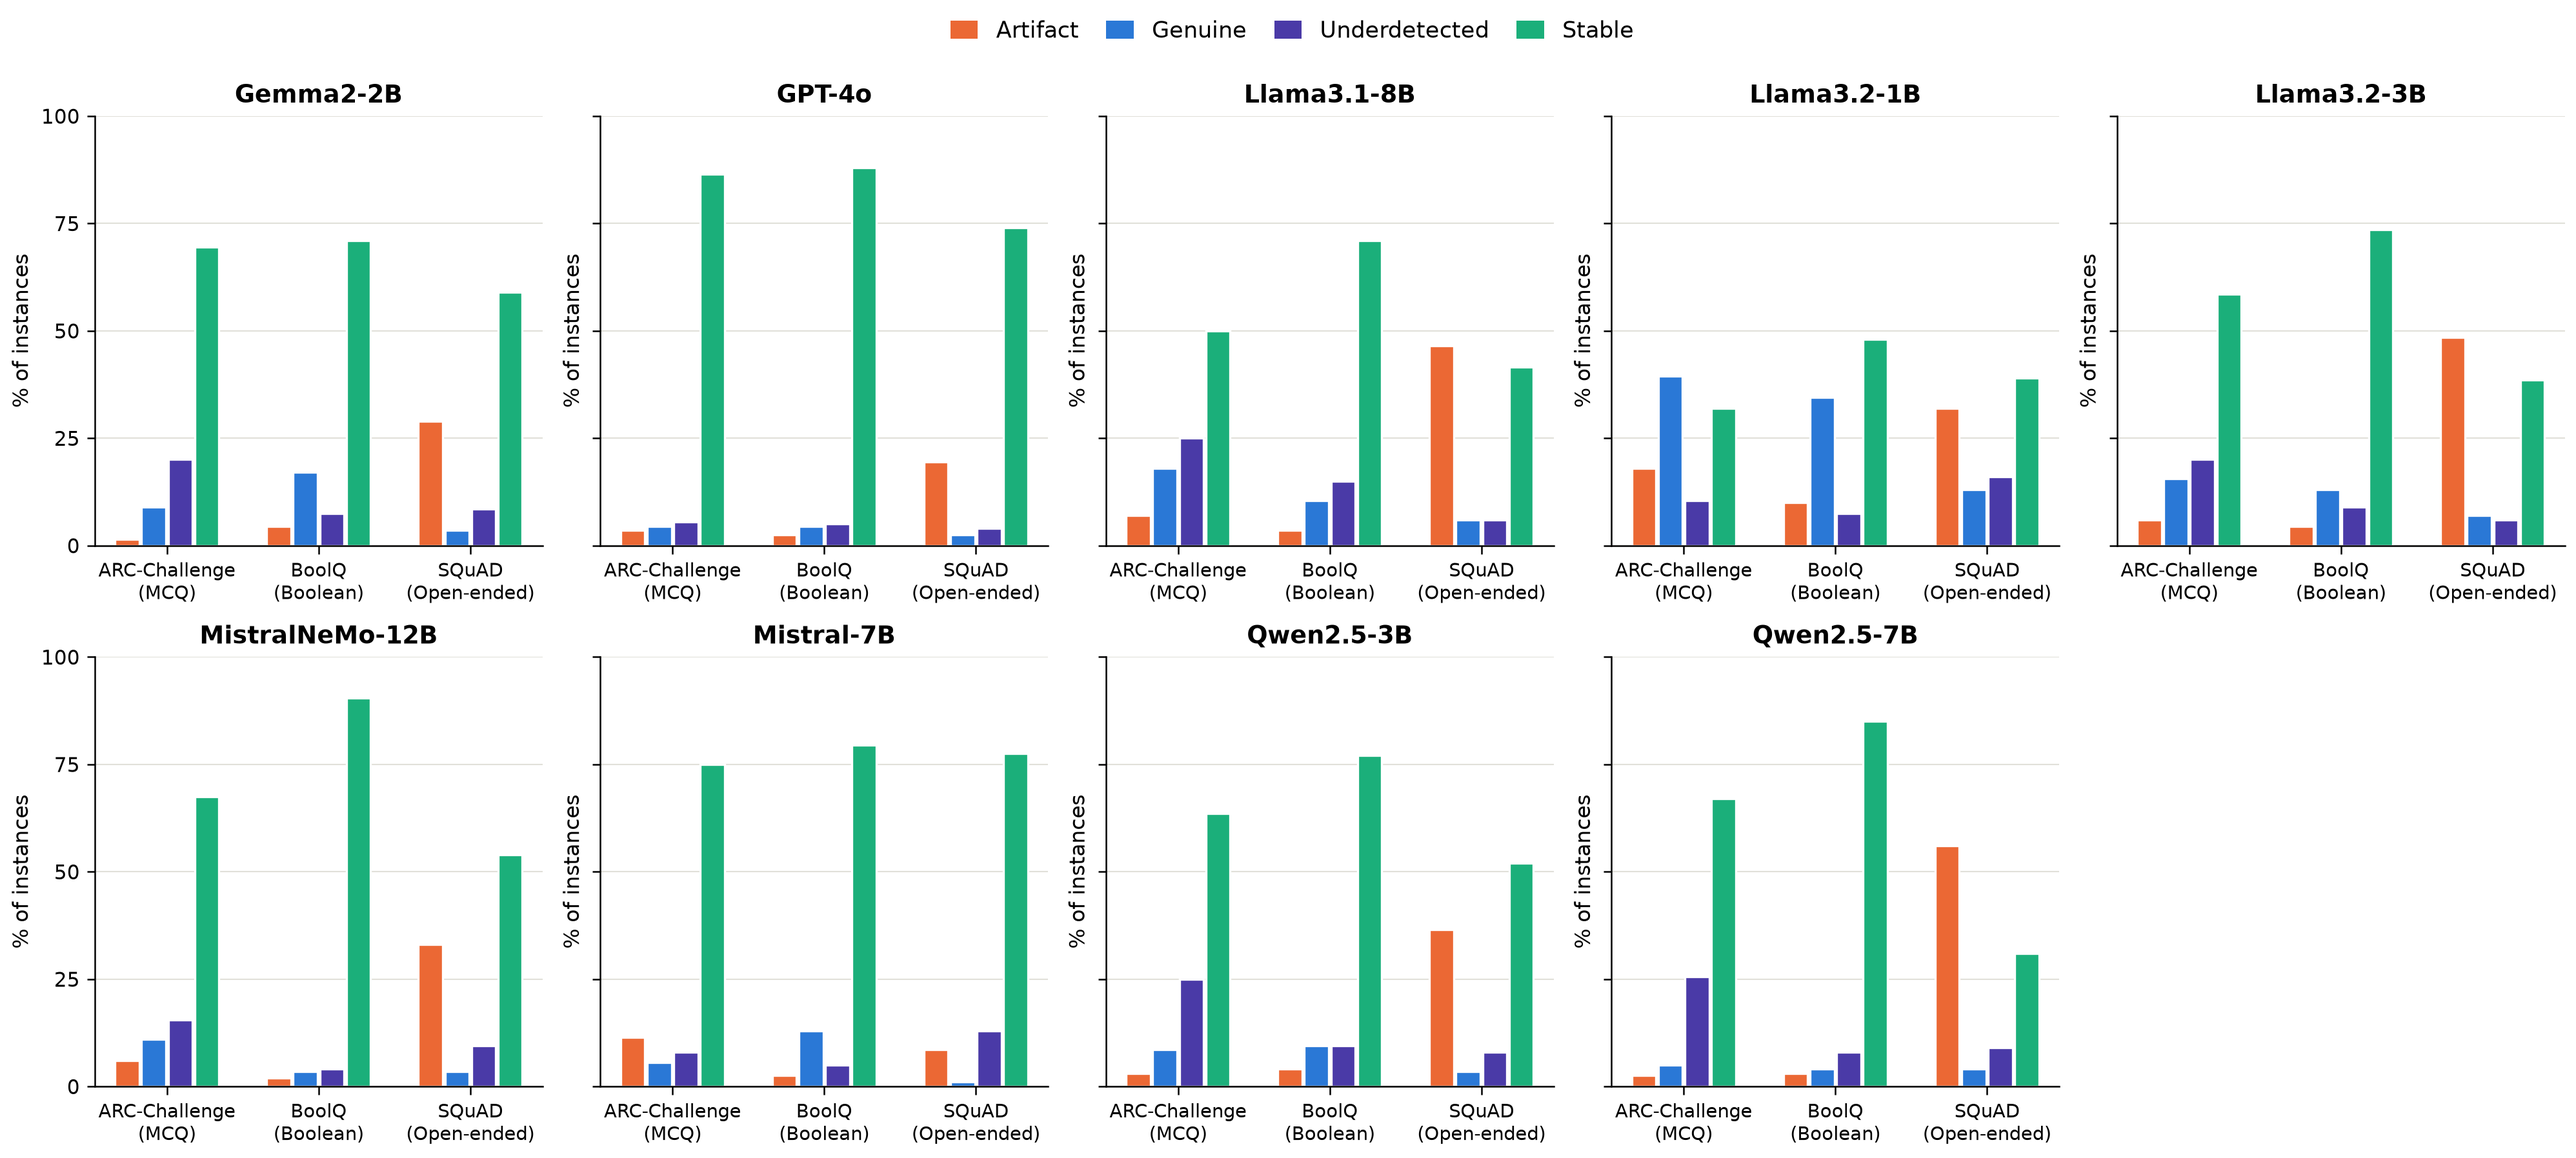
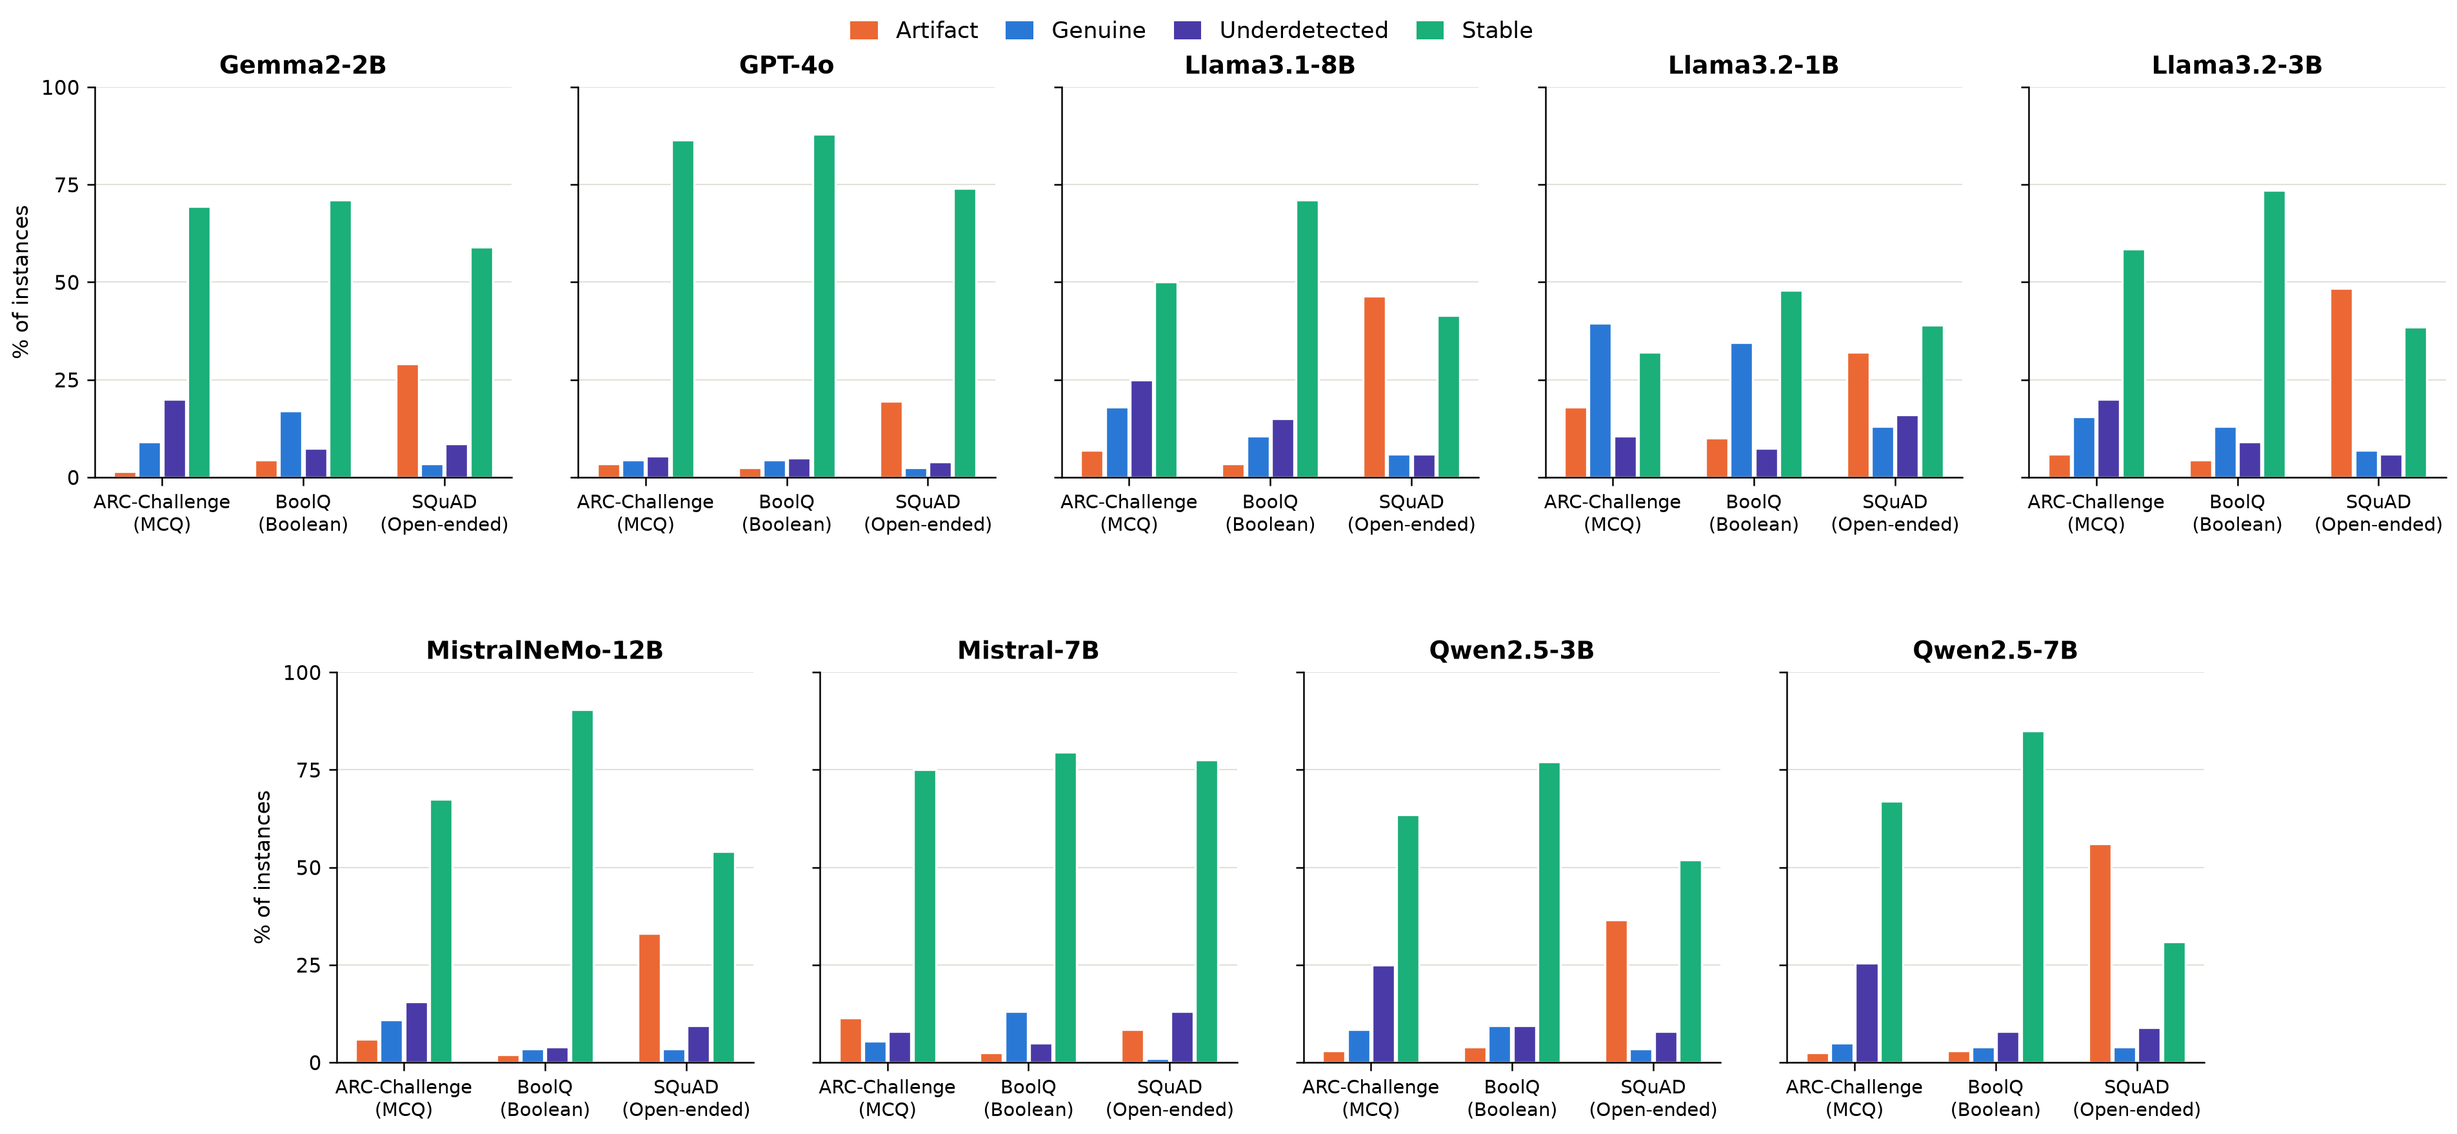
Updated figures

diff --git a/study/plot.py b/study/plot.py
@@ -135,19 +135,49 @@ def _style_ax(ax, ylabel: str = "", ylim=None, grid: bool = True) -> None:
 
 def _grid_axes(n: int, per_row: int = 5,
                cell_w: float = 2.7, cell_h: float = 3.0,
-               sharey: bool = True):
-    """Return (fig, axes_flat[:n]).  Extra slots in last row are hidden."""
-    ncols = min(n, per_row)
-    nrows = (n + ncols - 1) // ncols
-    fig, axes = plt.subplots(
+               sharey: bool = True, center: bool = False):
+    """Return (fig, list_of_axes[:n]).
+
+    With center=True and a non-full last row, the last row is horizontally
+    centered under the full rows using a doubled-column GridSpec so that
+    the incomplete row sits in the middle rather than pinned to the left.
+    """
+    ncols  = min(n, per_row)
+    nrows  = (n + ncols - 1) // ncols
+    n_last = n - (nrows - 1) * ncols  # panels in the final row
+
+    if center and nrows > 1 and n_last < ncols:
+        # Each panel occupies 2 GridSpec columns; the last row gets
+        # (ncols - n_last) empty columns as margin on each side.
+        gs_cols = 2 * ncols
+        fig = plt.figure(figsize=(cell_w * ncols, cell_h * nrows))
+        gs  = GridSpec(nrows, gs_cols, figure=fig,
+                       hspace=0.50, wspace=0.38,
+                       top=0.92, bottom=0.08, left=0.08, right=0.98)
+        axes = []
+        for row in range(nrows - 1):                      # full rows
+            for col in range(ncols):
+                axes.append(fig.add_subplot(gs[row, 2*col : 2*col+2]))
+        margin = ncols - n_last                           # symmetric padding
+        for i in range(n_last):                           # centred last row
+            c0 = margin + 2 * i
+            axes.append(fig.add_subplot(gs[nrows - 1, c0 : c0 + 2]))
+        if sharey:
+            ref = axes[0]
+            for ax in axes[1:]:
+                ax.sharey(ref)
+        return fig, axes
+
+    # Plain subplots path — hide unused trailing slots
+    fig, arr = plt.subplots(
         nrows, ncols,
         figsize=(cell_w * ncols, cell_h * nrows),
         sharey=sharey, squeeze=False,
     )
-    flat = axes.flatten()
+    flat = arr.flatten()
     for ax in flat[n:]:
         ax.set_visible(False)
-    return fig, flat[:n]
+    return fig, list(flat[:n])
 
 
 def _zone_legend_handles(zones=None):
@@ -165,7 +195,8 @@ def figure1_trizone(inst_df: pd.DataFrame, out_path: Path) -> None:
     models   = sorted(inst_df["model_name"].unique())
     datasets = list(inst_df["dataset"].unique())
 
-    fig, axes = _grid_axes(len(models), per_row=5, cell_w=2.7, cell_h=3.0)
+    fig, axes = _grid_axes(len(models), per_row=5, cell_w=2.7, cell_h=3.0,
+                           center=True)
 
     x = np.arange(len(datasets))
     n_z   = len(ZONES)
@@ -175,7 +206,8 @@ def figure1_trizone(inst_df: pd.DataFrame, out_path: Path) -> None:
     total = n_z * width + (n_z - 1) * gap
     offsets = np.linspace(-total / 2 + width / 2, total / 2 - width / 2, n_z)
 
-    for ax, model in zip(axes, models):
+    ncols = 5
+    for i, (ax, model) in enumerate(zip(axes, models)):
         mdf = inst_df[inst_df["model_name"] == model]
         for zone, offset in zip(ZONES, offsets):
             pcts = []
@@ -184,19 +216,22 @@ def figure1_trizone(inst_df: pd.DataFrame, out_path: Path) -> None:
                 pcts.append((sub["trizone"] == zone).mean() * 100 if len(sub) else 0.0)
             ax.bar(x + offset, pcts, width,
                    color=ZONE_COLOR[zone],
-                   edgecolor="white", linewidth=0.8)   # 0.8 px surface gap
+                   edgecolor="white", linewidth=0.8)
 
         ax.set_xticks(x)
         ax.set_xticklabels([DATASET_LABEL.get(d, d) for d in datasets], fontsize=7)
         ax.set_title(_name(model))
-        _style_ax(ax, ylabel="% of instances", ylim=(0, 100))
+        # y-axis label only on the leftmost panel of each row
+        ylabel = "% of instances" if i % ncols == 0 else ""
+        _style_ax(ax, ylabel=ylabel, ylim=(0, 100))
         ax.yaxis.set_major_locator(mticker.MultipleLocator(25))
+        if i % ncols != 0:
+            ax.tick_params(labelleft=False)
 
     handles = _zone_legend_handles()
     fig.legend(handles=handles, loc="upper center", ncol=4,
-               bbox_to_anchor=(0.5, 1.01), fontsize=8.5, frameon=False,
+               bbox_to_anchor=(0.5, 0.995), fontsize=8.5, frameon=False,
                columnspacing=1.2, handlelength=1.2, handleheight=0.85)
-    plt.tight_layout(rect=[0, 0, 1, 0.96], h_pad=0.8, w_pad=0.5)
     plt.savefig(out_path, dpi=300)
     plt.close()
     print(f"  Saved {out_path}")
@@ -260,22 +295,32 @@ def figure3_ablation(inst_df: pd.DataFrame, out_path: Path) -> None:
         "pub_div", [(0.0, CLR_NEG), (0.5, CLR_MID), (1.0, CLR_POS)]
     )
 
-    n     = len(models)
-    ncols = 5
-    nrows = (n + ncols - 1) // ncols  # 2
+    n      = len(models)
+    ncols  = 5
+    nrows  = (n + ncols - 1) // ncols  # 2
+    n_last = n - (nrows - 1) * ncols   # 4
+    margin = ncols - n_last             # 1 — symmetric padding for last row
 
-    # Extra narrow column on the right for the colourbar
+    # 2 GridSpec columns per panel + 1 narrow colorbar column on the right.
+    # This allows the bottom row to be centred: the 4 panels sit in the
+    # middle of the 10-column panel space with 1 empty column on each side.
+    gs_cols = 2 * ncols                 # 10 panel columns
     fig = plt.figure(figsize=(2.5 * ncols + 0.55, 2.35 * nrows))
-    gs  = GridSpec(nrows, ncols + 1, figure=fig,
-                   width_ratios=[1.0] * ncols + [0.055],
-                   hspace=0.62, wspace=0.32)
+    gs  = GridSpec(nrows, gs_cols + 1, figure=fig,
+                   width_ratios=[1.0] * gs_cols + [0.11],
+                   hspace=0.65, wspace=0.50,
+                   top=0.95, bottom=0.06, left=0.06, right=0.96)
 
     model_axes = []
     for idx in range(n):
-        r, c = divmod(idx, ncols)
-        model_axes.append(fig.add_subplot(gs[r, c]))
+        row, col = divmod(idx, ncols)
+        if row < nrows - 1:                        # full rows
+            c0 = 2 * col
+        else:                                      # centred last row
+            c0 = margin + 2 * col
+        model_axes.append(fig.add_subplot(gs[row, c0 : c0 + 2]))
 
-    cbar_ax = fig.add_subplot(gs[:, ncols])  # spans both rows
+    cbar_ax = fig.add_subplot(gs[:, gs_cols])  # colorbar spans all rows
 
     im = None
     for ax, model in zip(model_axes, models):
@@ -288,10 +333,11 @@ def figure3_ablation(inst_df: pd.DataFrame, out_path: Path) -> None:
 
         im = ax.imshow(data, cmap=cmap, vmin=-vmax, vmax=vmax, aspect="auto")
 
+        is_leftmost = (idx % ncols == 0)
         ax.set_xticks(range(3))
         ax.set_xticklabels(col_labels, fontsize=7)
         ax.set_yticks(range(len(factors)))
-        ax.set_yticklabels(factor_labels, fontsize=7)
+        ax.set_yticklabels(factor_labels if is_leftmost else [], fontsize=7)
         ax.set_title(_name(model), fontsize=9, fontweight="bold", pad=4)
         ax.tick_params(left=False, bottom=False)
         for sp in ax.spines.values():
@@ -421,9 +467,11 @@ def figure6_signed_eas(inst_df: pd.DataFrame, out_path: Path) -> None:
     models   = sorted(inst_df["model_name"].unique())
     datasets = list(inst_df["dataset"].unique())
 
-    fig, axes = _grid_axes(len(models), per_row=5, cell_w=2.7, cell_h=3.0)
+    fig, axes = _grid_axes(len(models), per_row=5, cell_w=2.7, cell_h=3.0,
+                           center=True)
 
-    for ax, model in zip(axes, models):
+    ncols = 5
+    for i, (ax, model) in enumerate(zip(axes, models)):
         mdf   = inst_df[inst_df["model_name"] == model]
         x     = np.arange(len(datasets))
         means = [float(mdf.loc[mdf["dataset"] == ds, "signed_eas"].mean())
@@ -436,7 +484,10 @@ def figure6_signed_eas(inst_df: pd.DataFrame, out_path: Path) -> None:
         ax.set_xticks(x)
         ax.set_xticklabels([DATASET_LABEL.get(d, d) for d in datasets], fontsize=7)
         ax.set_title(_name(model))
-        _style_ax(ax, ylabel="Mean Signed EAS")
+        ylabel = "Mean Signed EAS" if i % ncols == 0 else ""
+        _style_ax(ax, ylabel=ylabel)
+        if i % ncols != 0:
+            ax.tick_params(labelleft=False)
 
     handles = [
         mpatches.Patch(facecolor=CLR_POS, edgecolor="none",
@@ -445,9 +496,8 @@ def figure6_signed_eas(inst_df: pd.DataFrame, out_path: Path) -> None:
                        label="Judge detects more  (J > H)"),
     ]
     fig.legend(handles=handles, loc="upper center", ncol=2,
-               bbox_to_anchor=(0.5, 1.01), fontsize=8.5, frameon=False,
+               bbox_to_anchor=(0.5, 0.995), fontsize=8.5, frameon=False,
                columnspacing=1.5, handlelength=1.2)
-    plt.tight_layout(rect=[0, 0, 1, 0.96], h_pad=0.8, w_pad=0.5)
     plt.savefig(out_path, dpi=300)
     plt.close()
     print(f"  Saved {out_path}")
